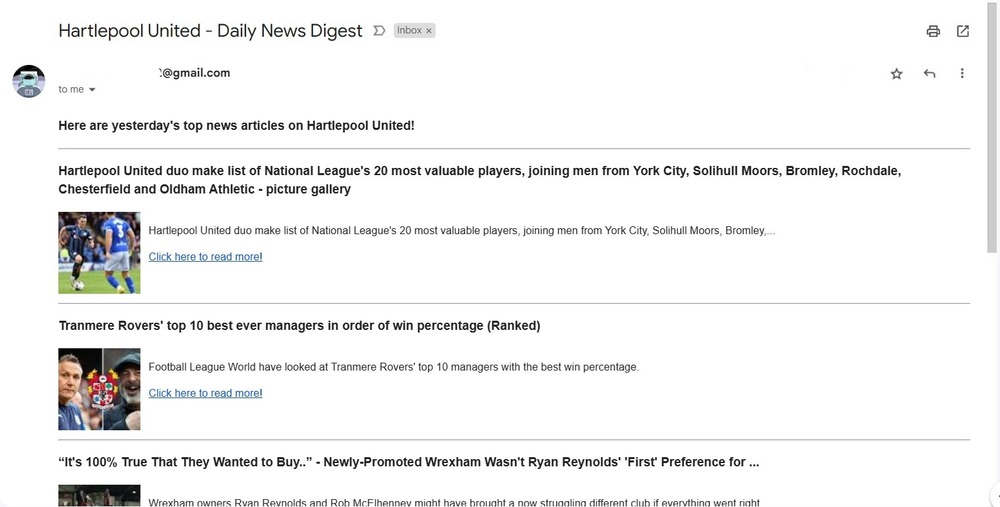
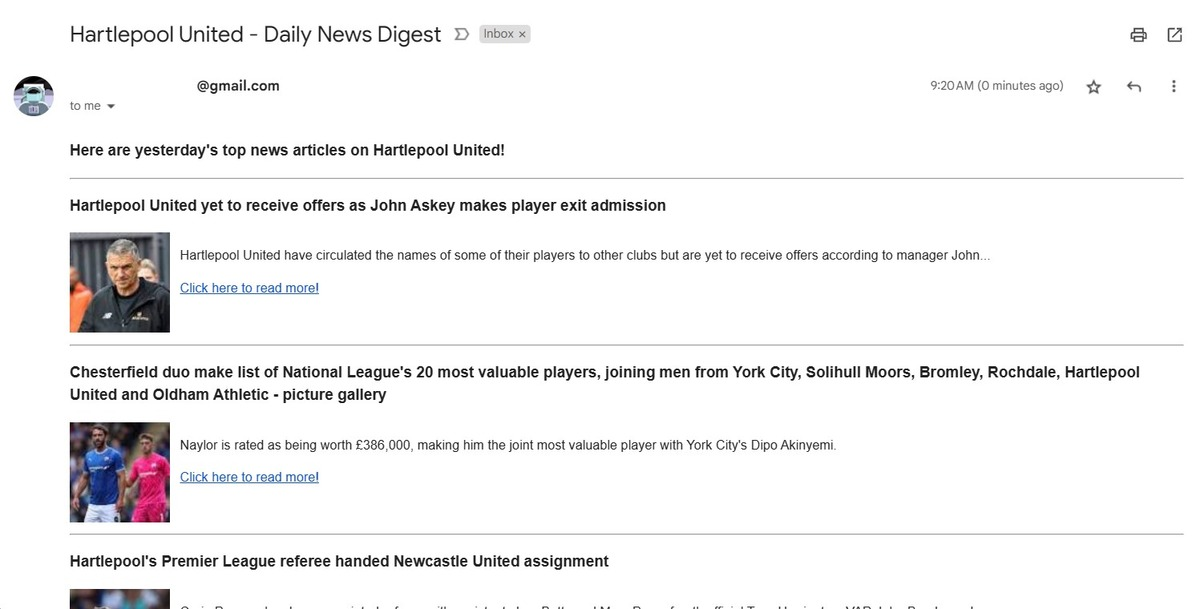
updates

diff --git a/_portfolio/project1.md b/_portfolio/project1.md
@@ -3,18 +3,17 @@ title: Web Scraping Project
 subtitle: Daily news digest emailer
 image: assets/img/portfolio/01-full.jpg
 alt: Hartlepool United
-
 caption:
   title: Web Scraping Project
   subtitle: Daily news digest emailer
   thumbnail: assets/img/portfolio/01-thumbnail.png
 ---
-For my first personal programming project, I wanted to address a real-life challenge for someone I know. They're a devoted Hartlepool United fan who struggles with technology but wishes to keep up with the latest news about their favorite club. To simplify this for them, I developed a special tool tailored to their needs.
 
-Written in Python this program utilizes the SerpAPI, a web scraping tool, to collect the top 5 news stories about Hartlepool United from the past day. It organizes these stories into a daily digest and sends them directly to the users specified email address. The program is scheduled to run at 6:30 AM every day, perfectly matching the users morning routine, so that they can enjoy the latest news with their breakfast!
+For my first personal mini project, I wanted to address an existing challenge for someone I know. They are a devoted Hartlepool United fan who struggles with modern technology but wishes to keep up with the latest news surrounding the club. To simplify this for them, I developed a program that utilizes technology they're familiar with and brings them the latest news.
 
-Check out the SerpAPI documentation: https://serpapi.com/.
+Written in Python, this program uses the SerpAPI, a web scraping tool, to collect the top 5 news stories about Hartlepool United from the past day. It organizes these stories into a daily digest and sends them directly to the user's email address. The program is scheduled to run at 9:20 AM every day, perfectly matching the user's morning routine, so they can enjoy the latest news with their breakfast.
+
+Check out the [SerpAPI documentation](https://serpapi.com/).
 
 {:.list-inline}
 - Date: 13/09/2023
-
